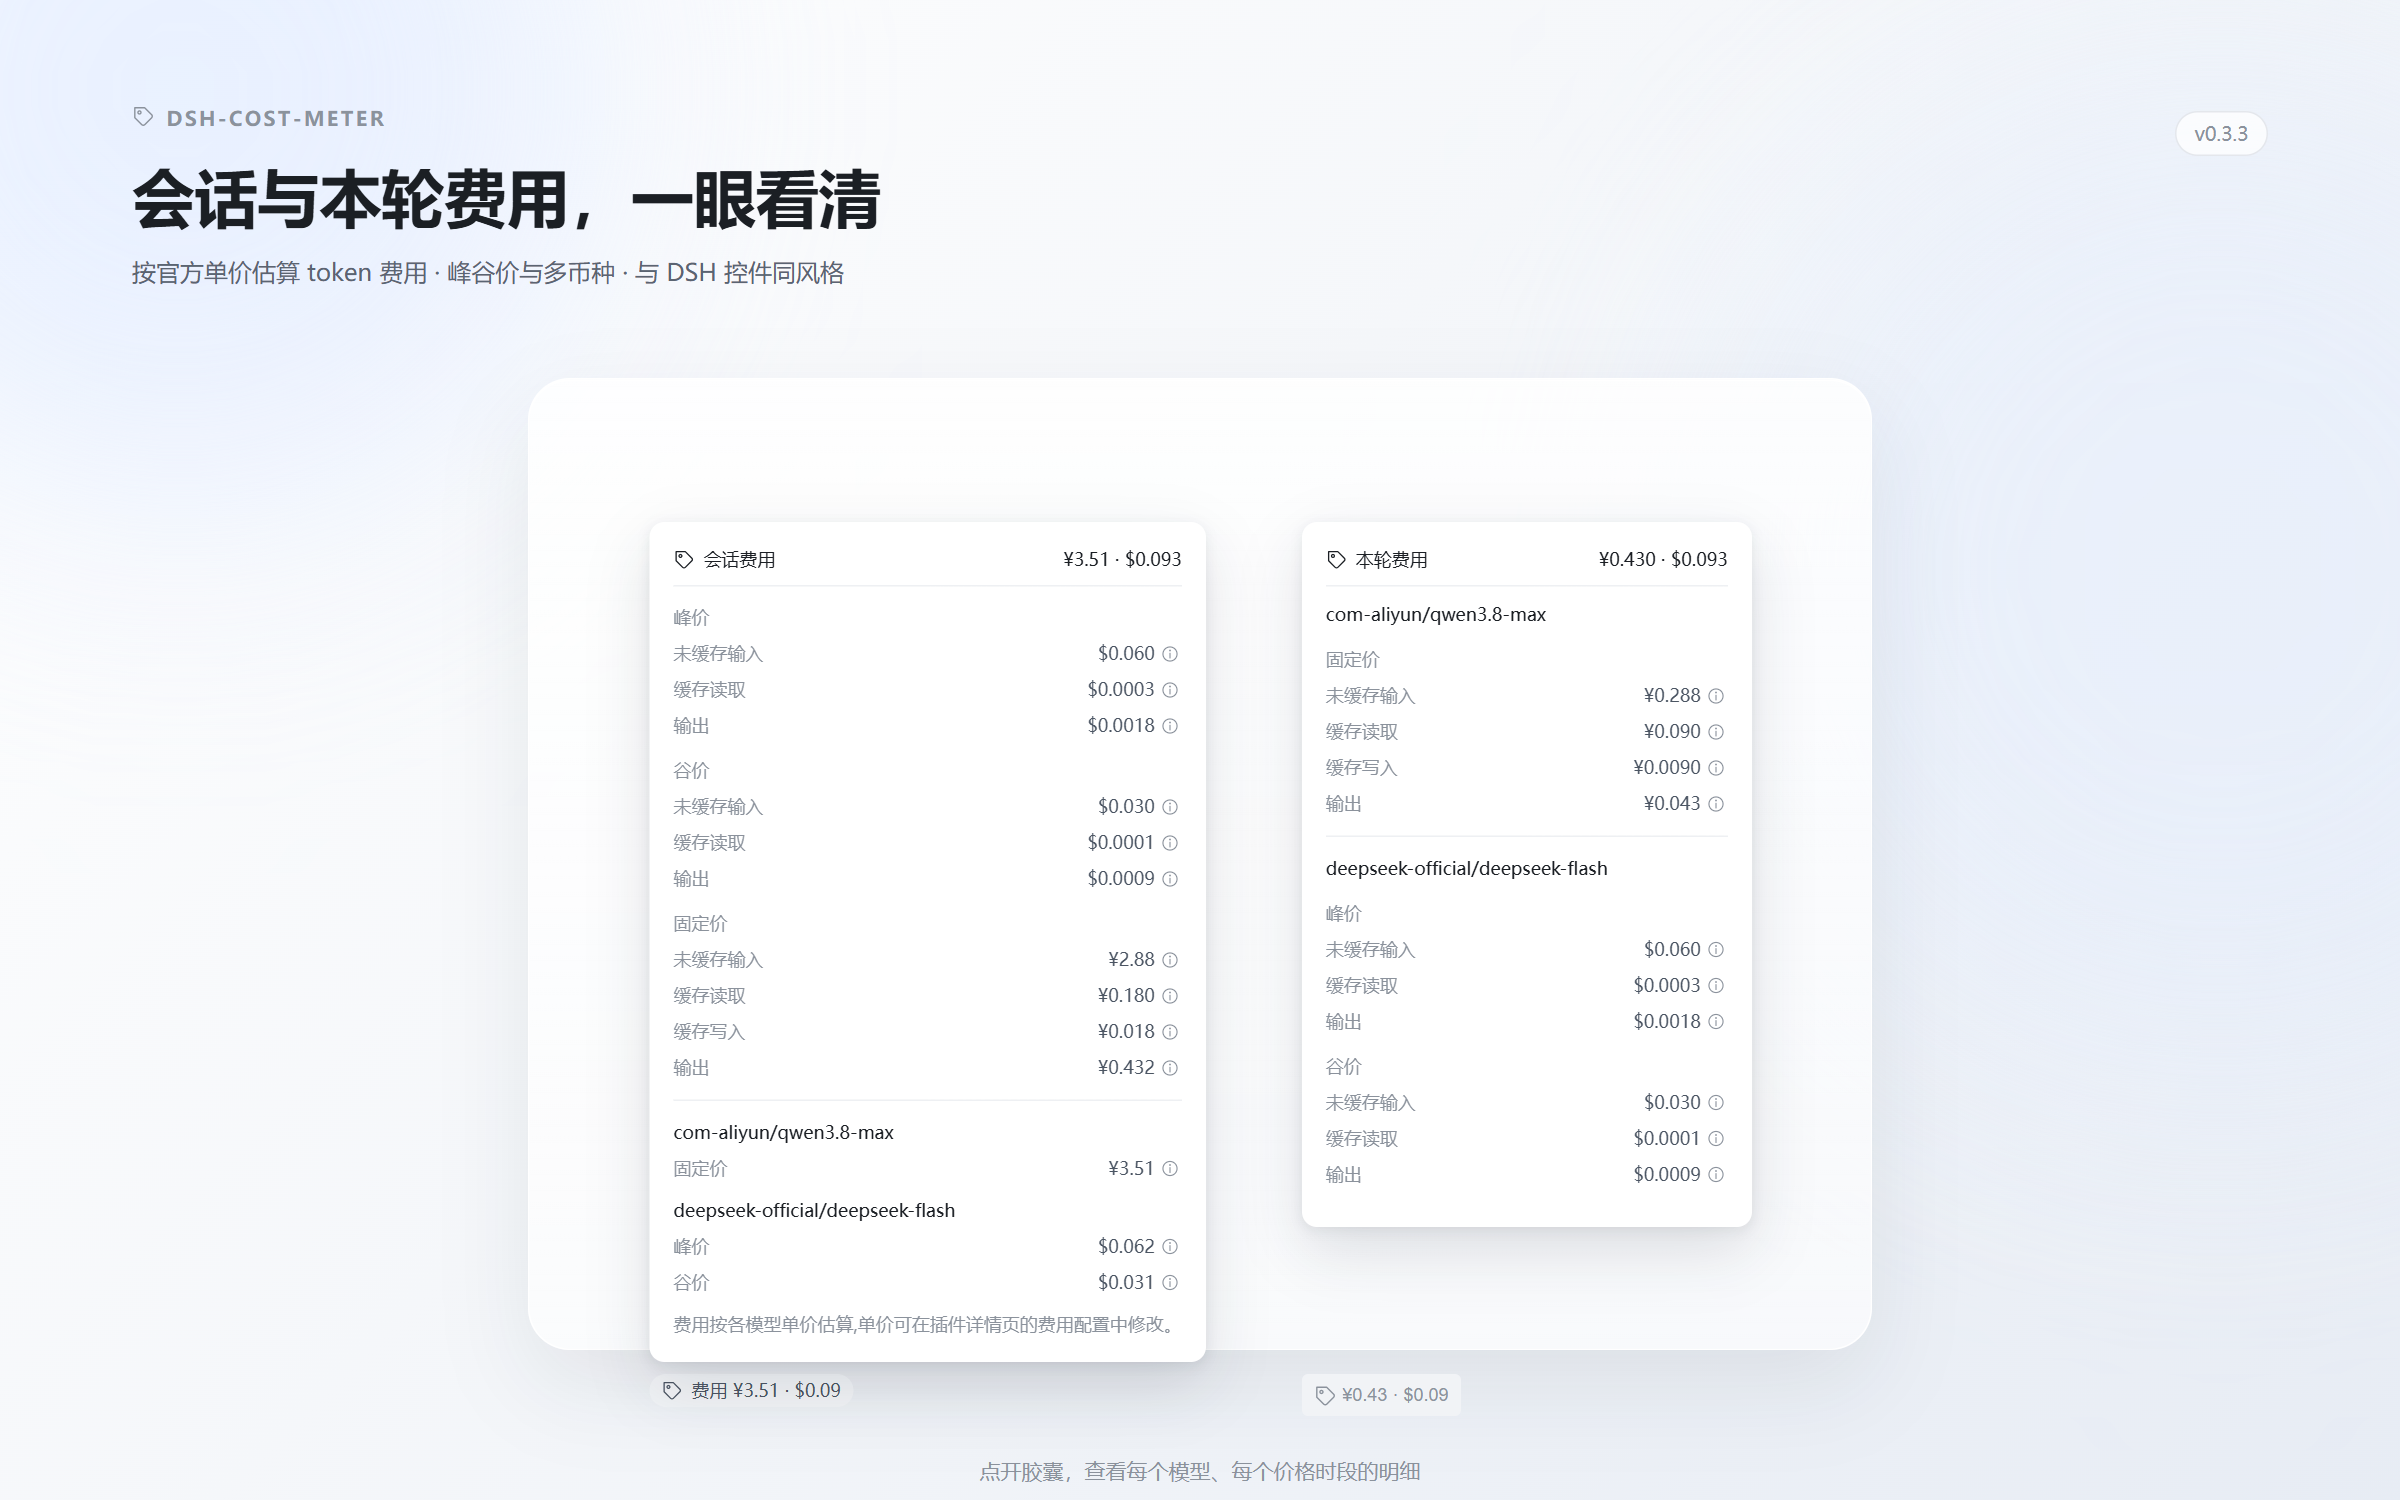
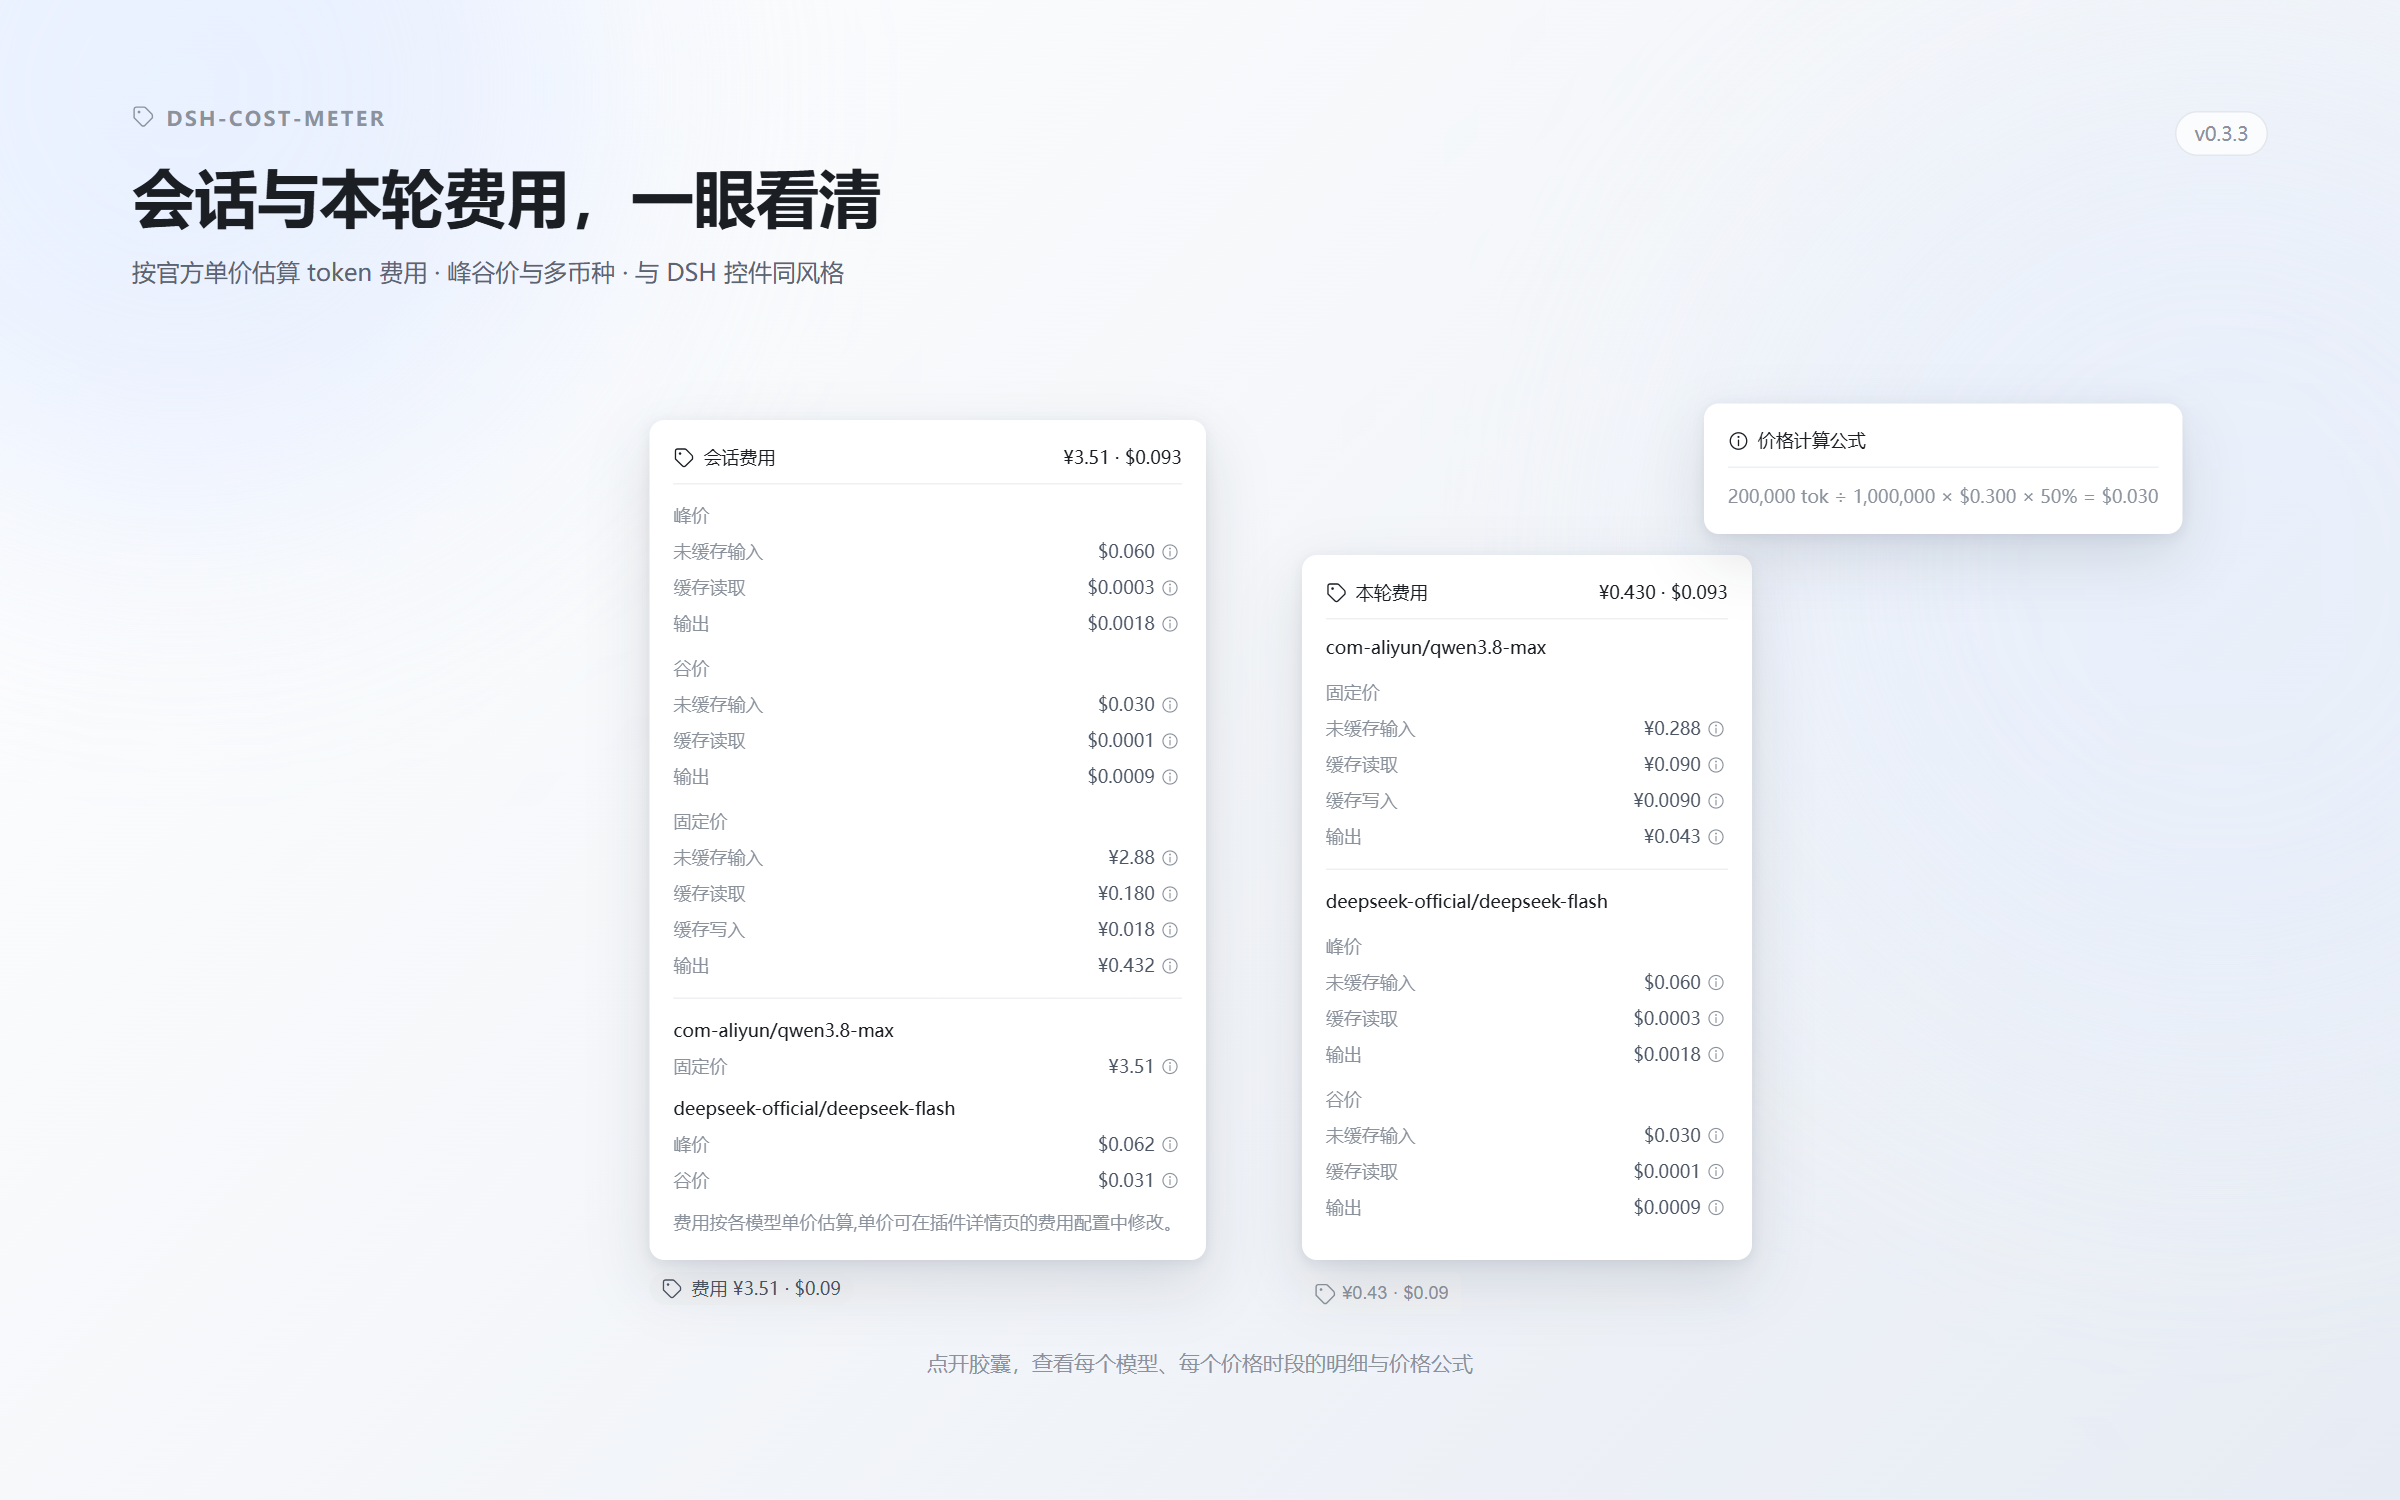
0.3.3 收尾：价格图标按宿主网格重绘，修复本轮费用胶囊排序，总览图展示价格公式浮层
- 价格标签图标改为占满宿主 16 单位网格（1.5 到 14.5），轮廓与旁边的宿主图标视觉大小一致；图标孔改为实心点，在 14 到 17 像素下不发虚。
- 修复本轮费用胶囊没有排到“本轮用量”之后的问题：宿主把插槽内容包在 display:contents 的锚点 div 里，胶囊是页脚的后代而非直接子元素，选择器去掉直接子代限制。
- 截图测试的模拟页脚补上宿主插槽锚点，直接子代选择器在该结构下会失败，因此这条路径有回归保护。
- 总览图重做：见方 16:10，标题、两张卡片、两枚胶囊与说明文字分层排布，并展示一个价格计算公式浮层。
- 会话费用与本轮费用截图按新图标重新生成；更新 CHANGELOG 和架构文档。

diff --git a/src/client/styles.css b/src/client/styles.css
@@ -56,17 +56,19 @@
 }
 /* The host footer wraps the official usage pill and the clock in one inline
    span. A pass-through span makes them flex items of the footer, so the order
-   above can place the chip between them: usage 0, chip 2, clock 3. The rules
-   match host classes by suffix; if the host renames them the chip only falls
-   back to the end of the row, so no behaviour depends on them. */
-[class*='_actions']:has(> .gdcc_turnRoot) > [class*='_endInfo'] {
+   above can place the chip between them: usage 0, chip 2, clock 3. The slot
+   renderer wraps our trigger in its own pass-through anchor, so the trigger is
+   a grandchild here, not a child. The rules match host classes by suffix; if
+   the host renames them the chip only falls back to the end of the row, so no
+   behaviour depends on them. */
+[class*='_actions']:has(.gdcc_turnRoot) > [class*='_endInfo'] {
 	display: contents;
 }
-[class*='_actions']:has(> .gdcc_turnRoot) > [class*='_endInfo'] > :first-child {
+[class*='_actions']:has(.gdcc_turnRoot) > [class*='_endInfo'] > :first-child {
 	/* The pass-through span loses the margin that spaced the footer. */
 	margin-left: 8px;
 }
-[class*='_actions']:has(> .gdcc_turnRoot) > [class*='_endInfo'] > [class*='_timeEnd'] {
+[class*='_actions']:has(.gdcc_turnRoot) > [class*='_endInfo'] > [class*='_timeEnd'] {
 	order: 3;
 }
 .gdcc_turnTrigger {

diff --git a/src/client/icons.js b/src/client/icons.js
@@ -1,8 +1,11 @@
 /**
  * The cost glyph for the two chips and their popovers: an outlined price tag
  * on the host 16px grid at the host's regular 1px weight. The host has no
- * money icon, so this one is drawn here. It keeps the host stroke, round
- * joins and the currentColor fill so a theme change reaches it.
+ * money icon, so this one is drawn here. The outline spans 1.5 to 14.5 of the
+ * grid, like the host glyphs, so one box size gives the same optical size as
+ * the host icons beside it. The hole is a filled dot: at chip size a ring
+ * hole smears into a blob, a dot stays crisp. The glyph keeps the host
+ * stroke, round joins and the currentColor fill so a theme change reaches it.
  * @returns a React component that renders the svg element.
  */
 export function createCostIcon(react) {
@@ -26,9 +29,9 @@ export function createCostIcon(react) {
 			},
 			h('path', {
 				key: 'body',
-				d: 'M14 9l-5 5a1.4 1.4 0 0 1-2 0L2 9V2h7l5 5a1.4 1.4 0 0 1 0 2Z',
+				d: 'M14.5 9.08L9.08 14.5a1.52 1.52 0 0 1-2.16 0L1.5 9.08V3a1.5 1.5 0 0 1 1.5-1.5h5.58a1.5 1.5 0 0 1 1.06.44l4.42 4.42a1.5 1.5 0 0 1 .44 1.06v1.66Z',
 			}),
-			h('circle', { key: 'hole', cx: 5.3, cy: 5.3, r: 1.05 }),
+			h('circle', { key: 'hole', cx: 5, cy: 5, r: 0.95, fill: 'currentColor', stroke: 'none' }),
 		);
 	}
 	return CostIcon;

diff --git a/docs/architecture.md b/docs/architecture.md
@@ -102,7 +102,7 @@ node tests/install-smoke.mjs
 
 Tests use the installed DSH runtime. `DSH_RUNTIME_ROOT` can select a different runtime. The install smoke test uses an isolated `DSH_HOME` and tests the package version from `package.json`. It does not change the user's profiles.
 
-Set `PLAYWRIGHT_MODULE` to an installed Playwright module to include desktop configuration checks. `node tests/screenshot-cards.mjs` creates desktop session and turn screenshots from the actual components; `node tests/screenshot-overview.mjs` draws the overview image with both panels and both chips. Both scripts require Playwright and the same `REACT_MODULE_ROOT` and `PLAYWRIGHT_MODULE` variables. Set `SCREENSHOT_DIR` to keep verification images outside `docs/images`.
+Set `PLAYWRIGHT_MODULE` to an installed Playwright module to include desktop configuration checks. `node tests/screenshot-cards.mjs` creates desktop session and turn screenshots from the actual components; `node tests/screenshot-overview.mjs` draws the overview image with both panels, both chips and one price formula popover. Both scripts require Playwright and the same `REACT_MODULE_ROOT` and `PLAYWRIGHT_MODULE` variables. Set `SCREENSHOT_DIR` to keep verification images outside `docs/images`.
 
 The repository root holds `screenshots.json`. It lists the overview, turn and session images as relative paths, so the plugin registry picks them up for the market card and the detail dialog. Keep the paths relative to the repository root and use PNG files.
 Set `SCREENSHOT_LOCALE=en` to check the English cards. If React is not exposed by the global DSH package, set `REACT_MODULE_ROOT` to a directory that can resolve React and ReactDOM.

diff --git a/CHANGELOG.md b/CHANGELOG.md
@@ -2,9 +2,9 @@
 
 ## 0.3.3
 
-- 费用胶囊改用价格标签图标：会话费用胶囊、本轮费用胶囊和两个明细面板标题使用同一个图标，替代与会话统计重复的仪表盘图标。
+- 费用胶囊改用价格标签图标：会话费用胶囊、本轮费用胶囊和两个明细面板标题使用同一个图标，替代与会话统计重复的仪表盘图标；图标轮廓占满宿主的 16 单位网格，与旁边的宿主图标视觉大小一致。
 - 本轮费用胶囊移到官方“本轮用量”之后，时间保持在最后；本轮没有用量面板时胶囊紧邻时间显示。
-- 新增总览图 `docs/images/overview.png`，并在仓库根添加 `screenshots.json`，让插件市场的卡片和详情页显示总览、本轮费用和会话费用三张截图。
+- 新增总览图 `docs/images/overview.png`，并在仓库根添加 `screenshots.json`，让插件市场的卡片和详情页显示总览、本轮费用和会话费用三张截图；总览图同时展示价格计算公式浮层。
 
 ## 0.3.2
 
